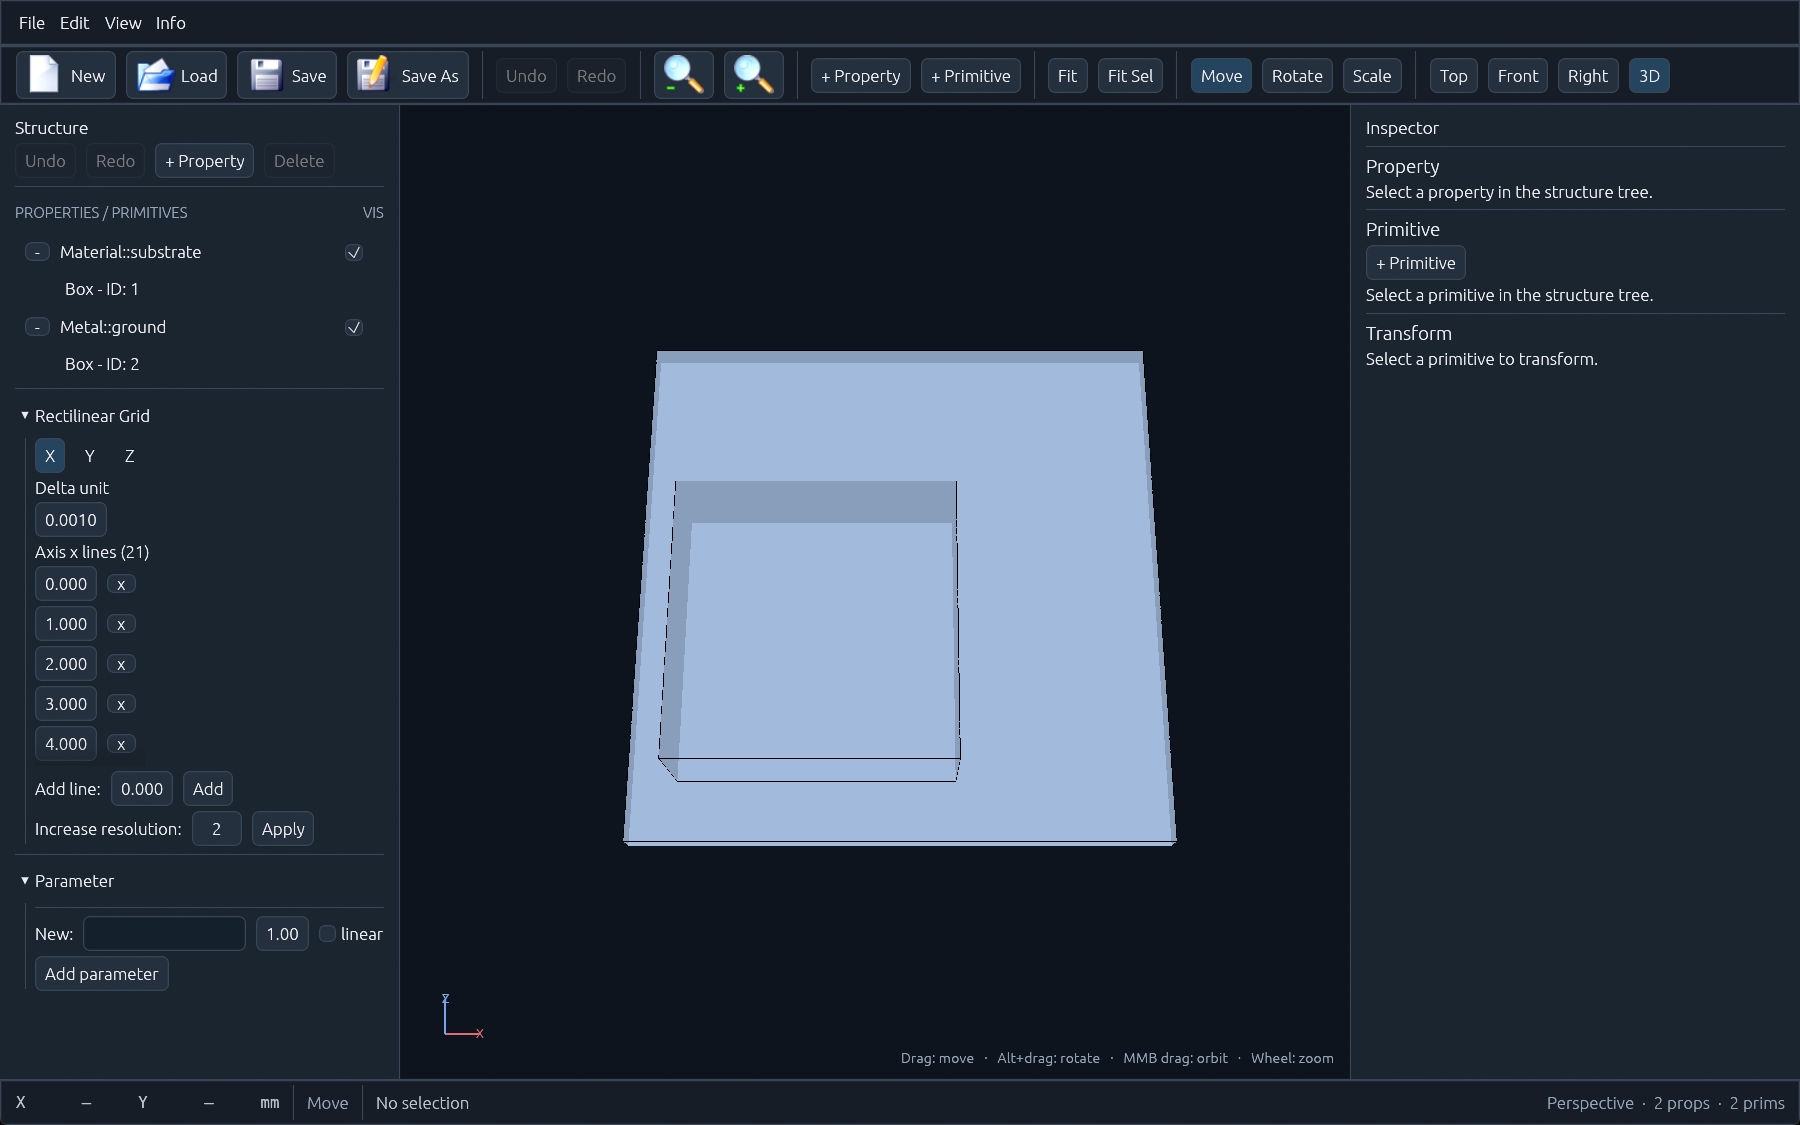
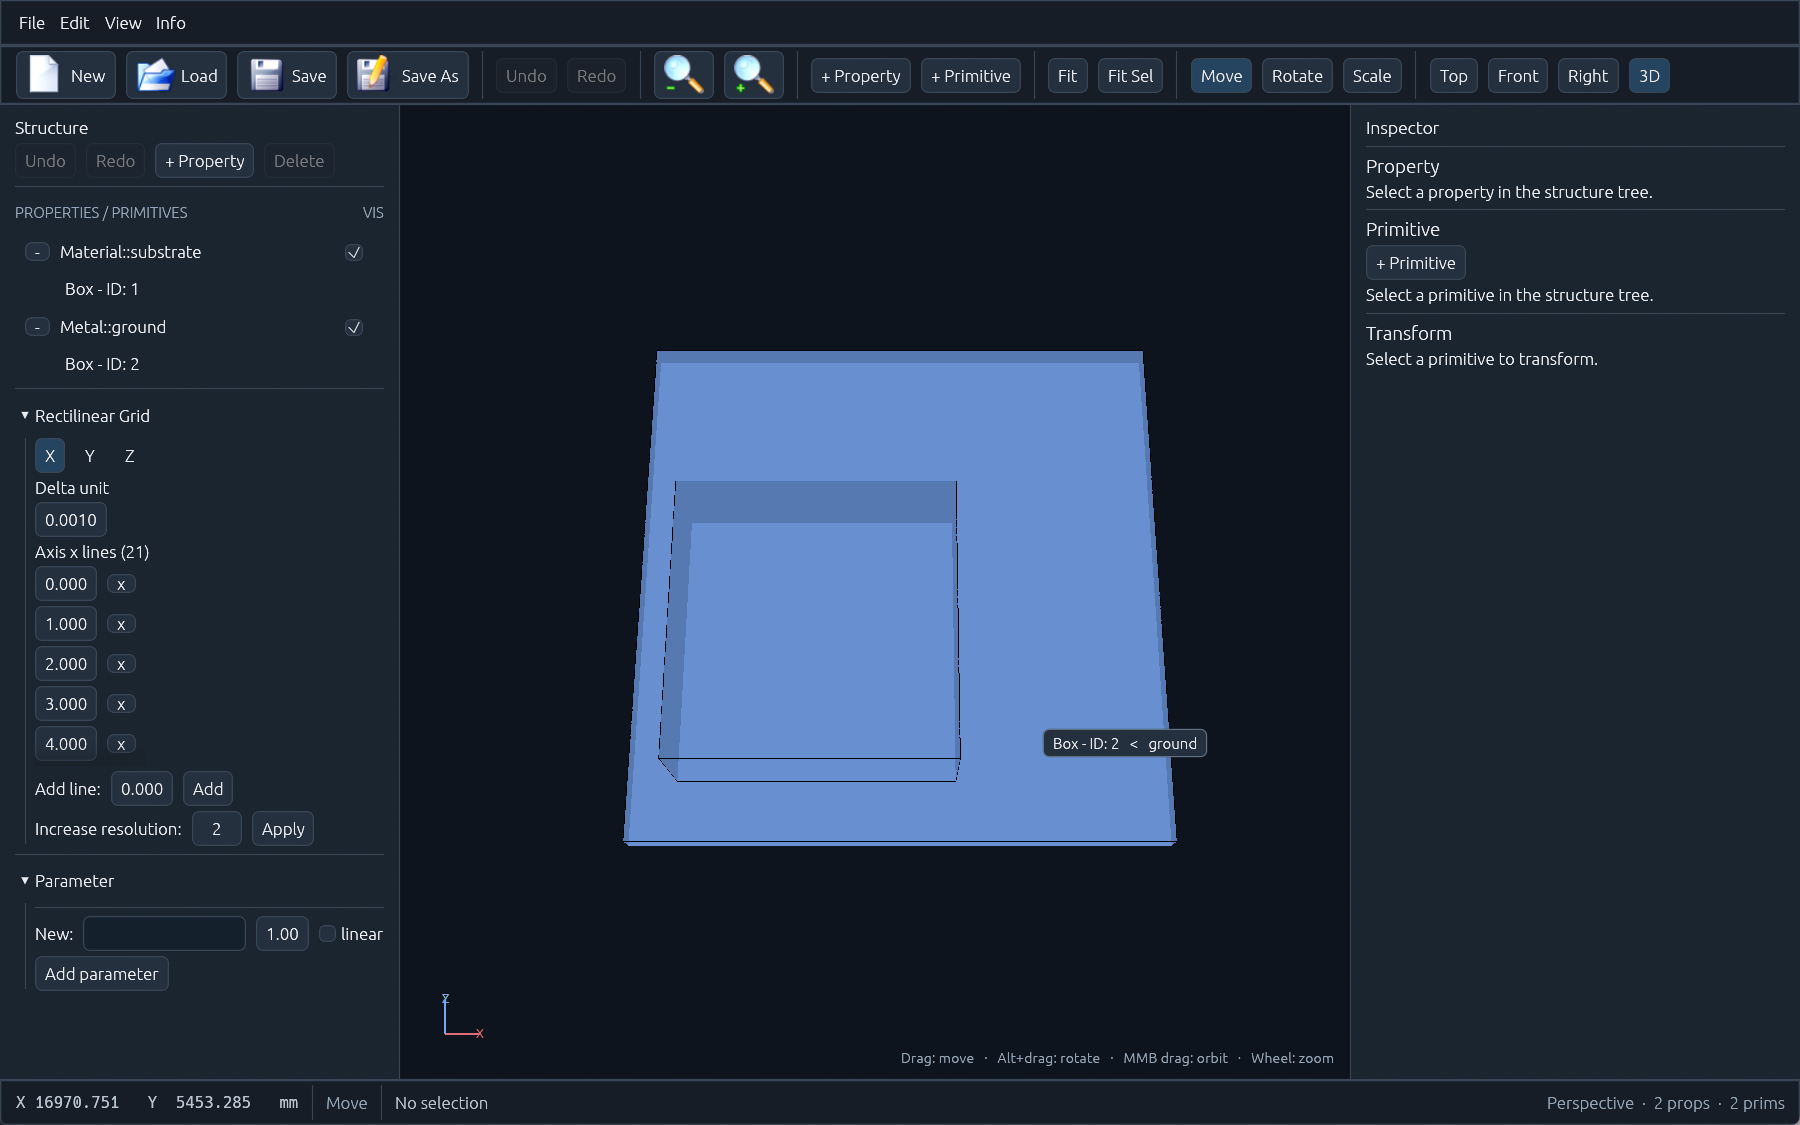
docs(gui): record the sRGB material-colour fix (RM-171)
The viewport now renders stored sRGB material colours at their intended value; update the audit matrix (35 verified subsystems, no broken rows), dashboard, risks, parity and release notes, the refreshed dark/light captures, and RM-171 (171 Verified).

diff --git a/docs/migration/REMEDIATION_TASKS.md b/docs/migration/REMEDIATION_TASKS.md
@@ -58,7 +58,7 @@ RM-127.
 
 | Status | Count | Tasks |
 | --- | --- | --- |
-| `Verified` | 170 | RM-001, RM-002, RM-003, RM-004, RM-005, RM-006, RM-007, RM-008, RM-009, RM-010, RM-011, RM-012, RM-013, RM-014, RM-015, RM-016, RM-017, RM-018, RM-019, RM-020, RM-021, RM-022, RM-023, RM-024, RM-025, RM-026, RM-027, RM-028, RM-029, RM-030, RM-031, RM-032, RM-033, RM-034, RM-035, RM-036, RM-037, RM-038, RM-039, RM-040, RM-041, RM-042, RM-043, RM-044, RM-045, RM-046, RM-047, RM-048, RM-049, RM-050, RM-051, RM-052, RM-053, RM-054, RM-055, RM-056, RM-057, RM-058, RM-059, RM-060, RM-061, RM-062, RM-063, RM-064, RM-065, RM-066, RM-067, RM-068, RM-069, RM-070, RM-071, RM-072, RM-073, RM-074, RM-075, RM-076, RM-077, RM-078, RM-079, RM-080, RM-081, RM-082, RM-083, RM-084, RM-085, RM-086, RM-087, RM-088, RM-089, RM-090, RM-091, RM-092, RM-093, RM-094, RM-095, RM-096, RM-097, RM-098, RM-099, RM-100, RM-101, RM-102, RM-103, RM-104, RM-105, RM-106, RM-107, RM-108, RM-109, RM-110, RM-111, RM-112, RM-113, RM-114, RM-115, RM-116, RM-117, RM-118, RM-119, RM-120, RM-121, RM-122, RM-123, RM-124, RM-125, RM-126, RM-127, RM-128, RM-129, RM-130, RM-131, RM-132, RM-133, RM-134, RM-135, RM-136, RM-137, RM-138, RM-139, RM-140, RM-141, RM-142, RM-143, RM-144, RM-145, RM-146, RM-147, RM-148, RM-149, RM-150, RM-151, RM-152, RM-153, RM-154, RM-155, RM-156, RM-157, RM-158, RM-159, RM-160, RM-161, RM-162, RM-163, RM-164, RM-165, RM-166, RM-167, RM-168, RM-169, RM-170 |
+| `Verified` | 171 | RM-001, RM-002, RM-003, RM-004, RM-005, RM-006, RM-007, RM-008, RM-009, RM-010, RM-011, RM-012, RM-013, RM-014, RM-015, RM-016, RM-017, RM-018, RM-019, RM-020, RM-021, RM-022, RM-023, RM-024, RM-025, RM-026, RM-027, RM-028, RM-029, RM-030, RM-031, RM-032, RM-033, RM-034, RM-035, RM-036, RM-037, RM-038, RM-039, RM-040, RM-041, RM-042, RM-043, RM-044, RM-045, RM-046, RM-047, RM-048, RM-049, RM-050, RM-051, RM-052, RM-053, RM-054, RM-055, RM-056, RM-057, RM-058, RM-059, RM-060, RM-061, RM-062, RM-063, RM-064, RM-065, RM-066, RM-067, RM-068, RM-069, RM-070, RM-071, RM-072, RM-073, RM-074, RM-075, RM-076, RM-077, RM-078, RM-079, RM-080, RM-081, RM-082, RM-083, RM-084, RM-085, RM-086, RM-087, RM-088, RM-089, RM-090, RM-091, RM-092, RM-093, RM-094, RM-095, RM-096, RM-097, RM-098, RM-099, RM-100, RM-101, RM-102, RM-103, RM-104, RM-105, RM-106, RM-107, RM-108, RM-109, RM-110, RM-111, RM-112, RM-113, RM-114, RM-115, RM-116, RM-117, RM-118, RM-119, RM-120, RM-121, RM-122, RM-123, RM-124, RM-125, RM-126, RM-127, RM-128, RM-129, RM-130, RM-131, RM-132, RM-133, RM-134, RM-135, RM-136, RM-137, RM-138, RM-139, RM-140, RM-141, RM-142, RM-143, RM-144, RM-145, RM-146, RM-147, RM-148, RM-149, RM-150, RM-151, RM-152, RM-153, RM-154, RM-155, RM-156, RM-157, RM-158, RM-159, RM-160, RM-161, RM-162, RM-163, RM-164, RM-165, RM-166, RM-167, RM-168, RM-169, RM-170, RM-171 |
 | `Implemented` | 0 | - |
 | `Blocked` | 0 | - |
 | `Analyzed` | 0 | - |
@@ -236,6 +236,7 @@ before the final audit can sign off.
 | RM-165 | P2 | Workbench shell: command strip, View menu, status bar, panel toggles | RM-164 | M | The command strip groups file/history/structure/create/fit/tool/view commands, moves all 12 creation buttons into `+ Property`/`+ Primitive` menus, wraps whole groups at 1280 px and fits one row at 1440/1920 px (screenshots `audits/gui-dark-1280.png`, `audits/gui-dark-1920.png`). The new View menu carries Fit All/Selection, Top/Front/Right/3D, parallel projection, theme, and panel visibility (Ctrl+B tree, Ctrl+I inspector); Edit carries enabled-only Undo/Redo. The status bar reports coordinates with the drawing unit (`mm` on the fixture), the active tool, selection summary, projection and counts, and marks unsaved changes. Theme persistence is in `settings.json`; the tree/inspector docks clamp to 320/360 px and the grid/parameter sections scroll at 800 px height. `qcsxcad-egui` 24 and `appcsxcad` 13 tests pass | Verified |
 | RM-169 | P2 | Bound the expression parser recursion depth | RM-028 | S | `Grammar` now counts recursion and returns `ParseErrorKind::OutOfMemory` beyond 512 nested expression/unary levels instead of overflowing the stack: `deeply_nested_expressions_are_rejected_without_overflowing` (4000 levels rejected, 100 parse). Closes SEC-001; a fuzz corpus is still absent | Verified |
 | RM-170 | P2 | PEC cavity TE101 mesh convergence | RM-065 | M | `scripts/ci/run_convergence_check_wsl.sh` runs the Rust Python bindings at 10x5x12, 20x10x24 and 40x20x48 with a common 72.53 ns FFT window. Relative errors against the analytic 3.9024232466 GHz: 1.770e-3, 4.270e-4, 1.047e-4; observed order **2.05 / 2.03**. Record `docs/migration/reference-data/convergence/cavity.json`; slab, MSL and dt refinement remain open | Verified |
+| RM-171 | P2 | Viewport colour management for stored sRGB materials | RM-166 | S | `renderer.rs` linearises fill/edge colours with `srgb_to_linear` before upload to the sRGB surface; `stored_srgb_colours_are_linearised_for_the_surface` and the refreshed `audits/gui-dark-1440.png` / `gui-light-1440.png` record it. Closes GUI-001 | Verified |
 | RM-167 | P0 | Reject `CellConstantMaterial` instead of silently averaging quarter cells | RM-050 | S | `setup_fdtd` rejects the option (native switches to `AverageMatCellCenter`, the port has only quarter-cell averaging); `cell_constant_material_is_rejected_at_setup` and E-008. Programmatic `SetCellConstantMaterial` still follows the native API, but the run fails with an explicit message | Verified |
 | RM-168 | P1 | Python façade parity: DC-free Gauss, engine diagnostics, `Write2XML` completeness | RM-095 | S | `SetGaussExcite(f0, fc, dc_free=True)` forwards to `set_gauss_excite_with_dc`; `_SetLibraryArguments` raises `RuntimeError` with the CLI-style option name, rejects GPU engines (no GPU backend) and unknown engines instead of running the CPU engine silently; `Write2XML` returns False without writing when the CSX or the excitation is missing. Covered by the carried `test_openEMS`/`test_XML_RoundTrip` suites | Verified |
 | RM-166 | P2 | Viewport navigation scope, fit commands and overlays | RM-165 | M | Wheel zoom and middle-drag orbit now require the pointer to be inside the viewport (`navigation_outside_the_viewport_is_ignored`), so scrolling the tree no longer moves the camera. `Fit All` frames the stored geometry bounds and `Fit Selection` merges the selected primitives' model bounding boxes (`fit_all`/`fit_selection`). The overlay shows the hovered primitive, the axis triad uses theme axis colours, and a single click selects the primitive under the cursor (`audits/gui-selection-1440.png` shows tree -> inspector -> status synchronisation after a real click). Camera units/behaviour are unchanged (`the_center_ray_passes_through_the_camera_center`, `a_projected_point_lies_on_its_ray`) | Verified |
@@ -512,6 +513,7 @@ in the task's acceptance column.
 | 2026-10-29 | RM-124 | Verified | Nightly job script with a dated artifact, PASS on crate tests and the 51-case harness; installed as the daily 03:00 Windows task (E-005) |
 | 2026-10-29 | RM-106 | Verified | Real-display Windows session: maximized MSVC build, native tree labels, 3D viewport; 18 automated checks unchanged; native Qt parity and the platform matrix are E-006 |
 | 2026-10-30 | RM-061, RM-167 | Verified | Two parsed-but-unimplemented physics options are now rejected at setup instead of silently changing the result: `cylindrical_multigrid_is_rejected_at_setup`, `set_multi_grid_is_recorded_but_setup_rejects_it`, `cell_constant_material_is_rejected_at_setup`; E-007/E-008 record the decisions. `openems-core` 275 lib tests pass |
+| 2026-10-30 | RM-171 | Verified | Viewport colour management: `renderer.rs` converts stored sRGB fill/edge colours to linear before the sRGB surface (`srgb_to_linear`, `stored_srgb_colours_are_linearised_for_the_surface`); `audits/gui-dark-1440.png` and `gui-light-1440.png` show the stored colour. Closes GUI-001; 25 qcsxcad-egui tests pass |
 | 2026-10-30 | RM-170 | Verified | PEC cavity TE101 mesh refinement at 10x5x12 / 20x10x24 / 40x20x48 with a common 72.53 ns FFT window: relative errors 1.770e-3 / 4.270e-4 / 1.047e-4 against the analytic 3.9024232466 GHz, observed order **2.05 / 2.03**. Record `docs/migration/reference-data/convergence/cavity.json`; harness `scripts/ci/run_convergence_check_wsl.sh` |
 | 2026-10-30 | RM-169 | Verified | The expression grammar carries a recursion counter and returns `ParseErrorKind::OutOfMemory` beyond 512 nested expression/unary levels: `deeply_nested_expressions_are_rejected_without_overflowing` rejects 4000 levels and still parses 100. `fparser-rs` 53 tests pass; a fuzz corpus is still absent |
 | 2026-10-30 | RM-168 | Verified | Python façade parity with the carried upstream tests: `SetGaussExcite(..., dc_free=True)` reaches the Rust DCFree implementation, `_SetLibraryArguments` raises `RuntimeError` for unknown options/engines and clear errors for GPU requests, and `Write2XML` refuses an incomplete setup (no CSX or no excitation) like native. Native Python suites pass |

diff --git a/audit/COMPLETION_DASHBOARD.md b/audit/COMPLETION_DASHBOARD.md
@@ -10,9 +10,8 @@ overstates correctness for the affected input classes.
 
 | Status | Count | Meaning here |
 |---|---:|---|
-| `VERIFIED_COMPLETE` | 34 | implementation + executed comparison/analytic result recorded |
+| `VERIFIED_COMPLETE` | 35 | implementation + executed comparison/analytic result recorded |
 | `IMPLEMENTED_UNVERIFIED` | 1 | Windows installer workflow; no run at this HEAD |
-| `IMPLEMENTED_BROKEN` | 1 | viewport colour management (GUI-001) |
 | `PARTIAL` | 3 | performance threshold, convergence study, dock-layout persistence |
 | `INTENTIONALLY_DIFFERENT` | 1 | fparser extended-precision variants (E-001/ADR 0006) |
 | `INTENTIONALLY_UNSUPPORTED` | 5 | GPU compute (ADR 0002), FreeBSD hyp2mat (E-004), GUI solver control, multi-grid (E-007), cell-constant material (E-008) |
@@ -78,7 +77,6 @@ convergence evidence exists.
 |---|---|---|---|
 | VAL-001 | Independent validation was thin; the cavity is now covered. Two analytic wave-speed tests plus native-parity cases, and a **cavity TE101 refinement study (order 2.05/2.03)**; slab, MSL and dt refinement still missing, no CST data. | `audit/numerics/CONVERGENCE.md`; `reference-data/convergence/cavity.json` | Add slab, MSL notch and dt refinement |
 | PERF-001 | Baseline exists (wall 3.78x / 2.14x / 2.92x native; RSS 0.32x / 2.96x / 0.39x) but no accepted threshold. | `reference-data/perf/performance-baseline.md` | Agree per-case gate: median of 5, ≤4x wall, ≤20 % regression, RSS ≤3.25x or absolute cap |
-| GUI-001 | Materials render lighter than native because stored sRGB colours are written as linear on an sRGB surface. | `audits/gui-modernization-audit.md` §9 | Linearise vertex colours; visual + numeric check on one fixture |
 | GUI-002 | Theme persists; panel sizes/layout do not (egui panel state is session-only). | `qcsxcad-egui/src/app.rs` | Persist panel geometry with the settings file |
 | DOC-001 | The repository is hand-formatted; `cargo fmt --check` fails on pre-existing code, and clippy has no baseline. | `00_baseline.md` §3 | Separate formatting PR; establish clippy baseline |
 

diff --git a/docs/migration/MIGRATION_STATUS.md b/docs/migration/MIGRATION_STATUS.md
@@ -1,6 +1,6 @@
 # Rust Migration Status
 
-**Status (2026-10-30): Complete.** The register has **170 `Verified` rows and
+**Status (2026-10-30): Complete.** The register has **171 `Verified` rows and
 no open row** (`REMEDIATION_TASKS.md`); the GUI design-parity work (`RM-152`)
 and the native icons/metrics (`RM-153`) are closed, and the `Precision
 Workbench` redesign adds RM-164..RM-166 (theme tokens, shell, viewport
@@ -50,8 +50,8 @@ the denormal flush, the PEC-edge `.vtp` dump and the FDTD-child scoping fix.
 The register grows to 163 `Verified` rows (RM-154..RM-163); the new APIs are
 wired into the GUI renderer and the Python bindings, and the full workspace
 suite is 865 passed / 0 failed. The GUI redesign adds RM-164..RM-166 and the
-audit adds RM-167/RM-168, the parser hardening adds RM-169, and the cavity convergence study adds
-RM-170, for 170 `Verified` rows in total.
+audit adds RM-167/RM-168, the parser hardening adds RM-169, the cavity convergence study adds RM-170, and the viewport colour fix adds
+RM-171, for 171 `Verified` rows in total.
 Everything else is classified as already present, not applicable (GPU engine,
 packaging, CI) or deferred with a reason in
 `audits/upstream-sync-2026-10-30.md`.
@@ -114,7 +114,7 @@ pass (405 tests, 2 GPU tests reported `SKIPPED`).
 
 Records corrected: E-005 (the nightly task was deleted), the stale
 `FINAL_AUDIT.md` headline, and `RM-061`'s evidence. The register is now
-**170 `Verified`, 0 open**. The remaining gaps are validation strength
+**171 `Verified`, 0 open**. The remaining gaps are validation strength
 (convergence, CST) and the platform matrix, not porting work; see
 `audit/releases/FINAL_READINESS.md` for the conditional release verdict.
 

diff --git a/docs/migration/audits/gui-modernization-audit.md b/docs/migration/audits/gui-modernization-audit.md
@@ -192,12 +192,13 @@ Verification:
   helper now sets DPI awareness, forces the app topmost and captures the client
   rectangle.
 
-Recorded finding (not changed in this phase): the wgpu surface is an sRGB
-target while the renderer writes stored material colours as linear values, so
-materials render lighter than in the native Qt application. Changing it alters
-the appearance of every property and belongs to a renderer colour-management
-change with its own validation.
+Fixed 2026-10-30 (RM-171): the viewport was an sRGB target while stored
+material colours were written as linear values, so every material rendered
+lighter. `renderer.rs` now converts fill/edge colours with `srgb_to_linear`
+before upload (`stored_srgb_colours_are_linearised_for_the_surface`); the
+dark/light captures show the stored colour. The clear colour was already
+linearised in the same phase.
 
 Remaining phases: persisted dock sizes (egui panel state is session-only),
-arrow-key tree navigation and visible focus rings, a `Ctrl+K` command registry,
-and a colour-managed viewport.
+arrow-key tree navigation and visible focus rings, and a `Ctrl+K` command
+registry.

diff --git a/docs/migration/audits/gui-parity.md b/docs/migration/audits/gui-parity.md
@@ -193,12 +193,12 @@ Evidence: `docs/migration/audits/gui-dark-1280.png`,
 tree -> inspector -> status). Tests: 52 `qcsxcad-core`, 24 `qcsxcad-egui`,
 13 `appcsxcad`.
 
-Two findings recorded rather than changed silently:
+Findings:
 
-- The wgpu surface is an sRGB target and the renderer's vertex colours are
-  written as if they were linear, so stored material colours render lighter
-  than the native application. Data and shaders were not modified; this is a
-  renderer-colour-management task for the viewport phase.
+- **Fixed 2026-10-30 (RM-171):** the wgpu surface is an sRGB target and the
+  renderer wrote stored colours as linear, so materials rendered lighter.
+  `renderer.rs` now linearises fill/edge colours; a unit test and the
+  dark/light captures record it.
 - The Qt icon set's `viewmag-`/`viewmag+` are used for collapse/expand because
   they are the only matching icons available; they carry tooltips and will be
   replaced when an outline icon family is approved (ADR required).

diff --git a/audit/releases/FINAL_READINESS.md b/audit/releases/FINAL_READINESS.md
@@ -36,7 +36,7 @@ CST-validated or production-ready replacement.
 | Analytic SAR | missing (`VAL-002`) |
 | MATLAB (as opposed to Octave) | not run |
 | Fuzzing/Miri/sanitizers | not run |
-| GUI colour management, layout persistence | open P2 (`GUI-001/002`) |
+| GUI layout persistence | open P2 (`GUI-002`); colour management fixed (RM-171) |
 
 ## 3. Checklist (protocol §13)
 
@@ -67,7 +67,7 @@ CST-validated or production-ready replacement.
 2. Convergence study for the dielectric slab, MSL notch, SAR and dt refinement (the cavity is recorded).
 3. Hosted or local macOS/FreeBSD/Windows runs at the release commit.
 4. An agreed performance gate, with the release commit measured.
-5. The sRGB material-colour fix (or a recorded acceptance of the difference).
+5. ~~The sRGB material-colour fix.~~ Met (RM-171).
 6. A decision on multi-grid and cell-constant materials: implement, or keep the
    explicit rejection in the release notes.
 7. A MATLAB run if MATLAB support is advertised.

diff --git a/audit/00_risks.md b/audit/00_risks.md
@@ -31,7 +31,6 @@ reach the operator/engine or the writer.
 |---|---|---|---|
 | VAL-001 | Independent validation is partly covered: cavity TE101 converges at order 2.05/2.03; slab, MSL and dt refinement are still missing | `audit/numerics/CONVERGENCE.md` | slab/MSL/dt refinement |
 | PERF-001 | Baseline without an accepted threshold | 3.78x/2.14x/2.92x wall; no gate | agree per-case gate |
-| GUI-001 | sRGB material colours render too light | `audits/gui-modernization-audit.md` §9 | linearise vertex colours |
 | GUI-002 | Panel sizes do not persist | egui panel state is session-only | persist with settings |
 | DOC-001 | No rustfmt/clippy baseline | `cargo fmt --check` fails on pre-existing code | separate cleanup PR |
 

diff --git a/audit/PORT_COMPLETENESS.md b/audit/PORT_COMPLETENESS.md
@@ -57,7 +57,7 @@ silent option drops, now guarded).
 | Mesh/time convergence | `PARTIAL`: analytic wave speed only; no refinement table |
 | Performance threshold | `PARTIAL`: baseline recorded, no gate |
 | Platform matrix | `BLOCKED`: hosted Actions unavailable; last run predates HEAD |
-| GUI colour management / panel persistence | `PARTIAL` (P2) |
+| GUI panel-layout persistence | `PARTIAL` (P2); viewport colour management fixed (RM-171) |
 | Parser hardening | no fuzz corpus; fparser has no nesting-depth limit (SEC-001) |
 
 ## 5. Readiness statement
